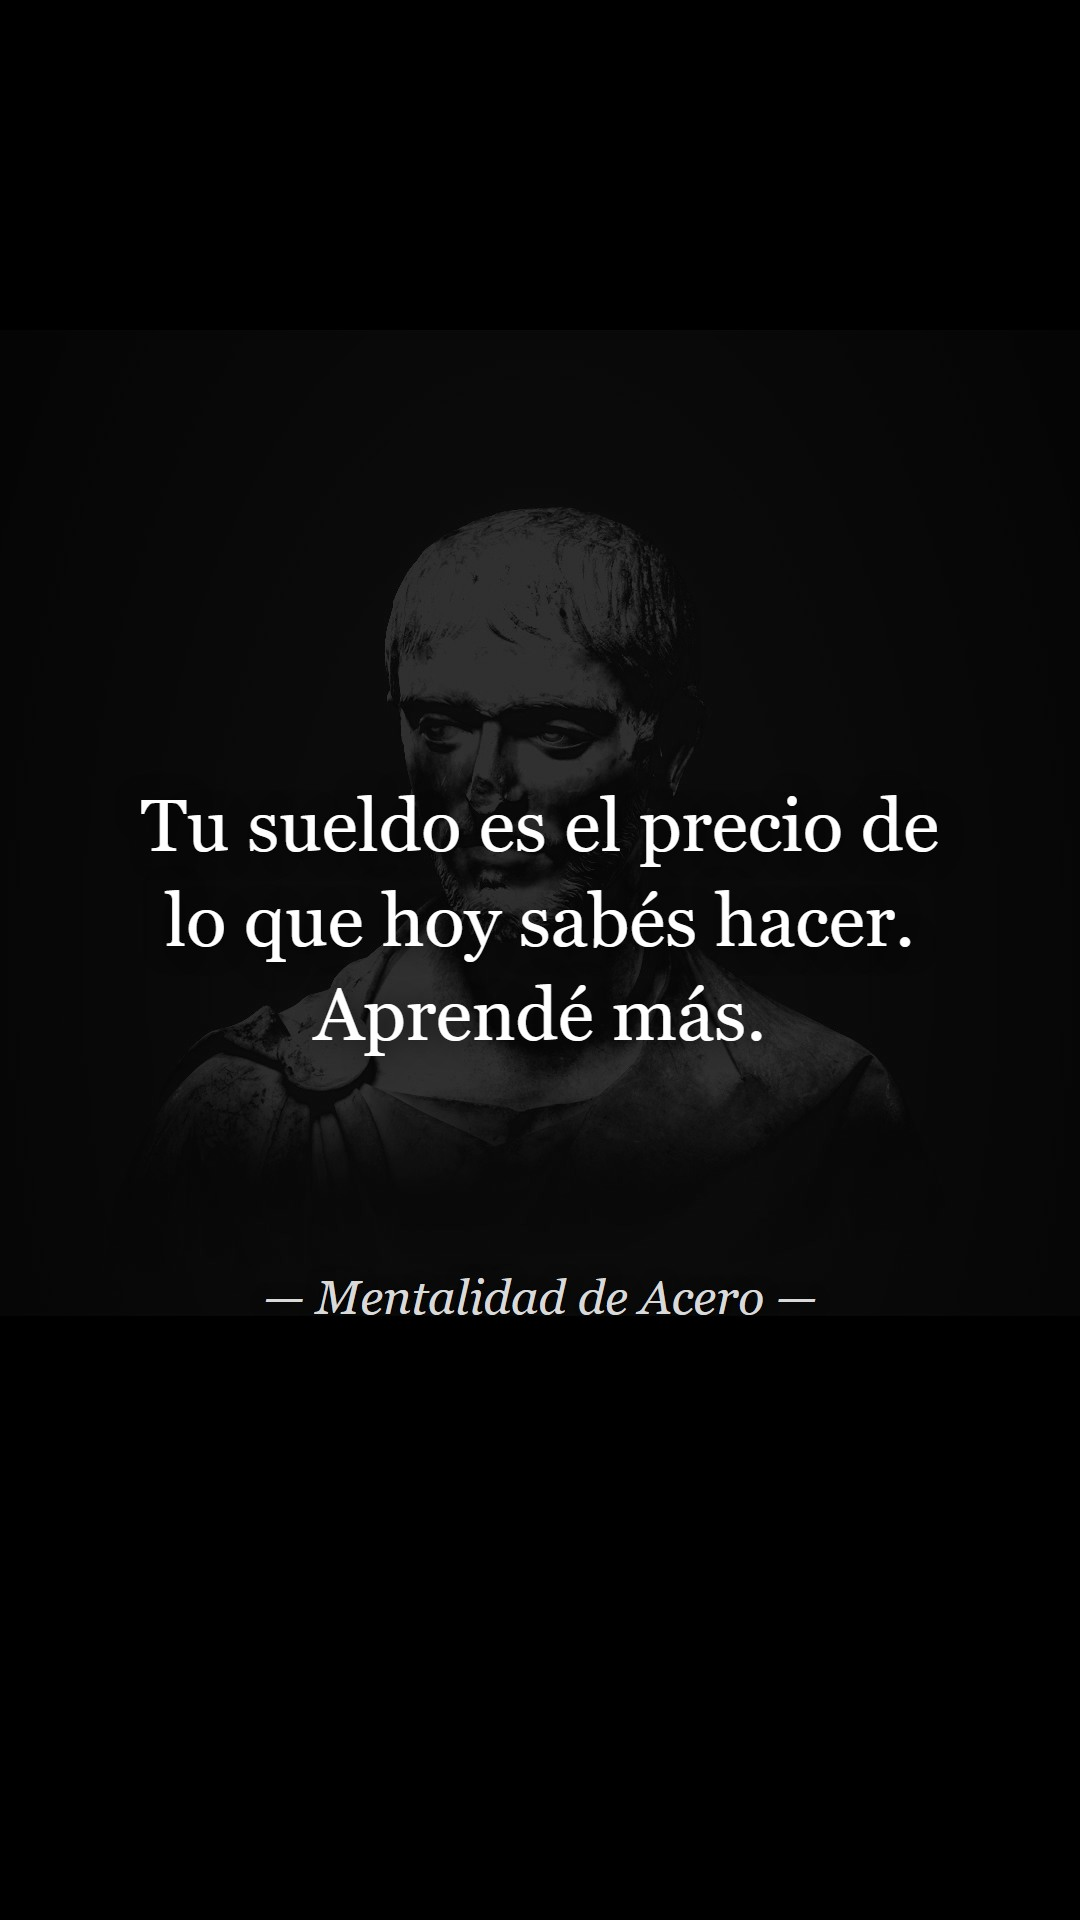
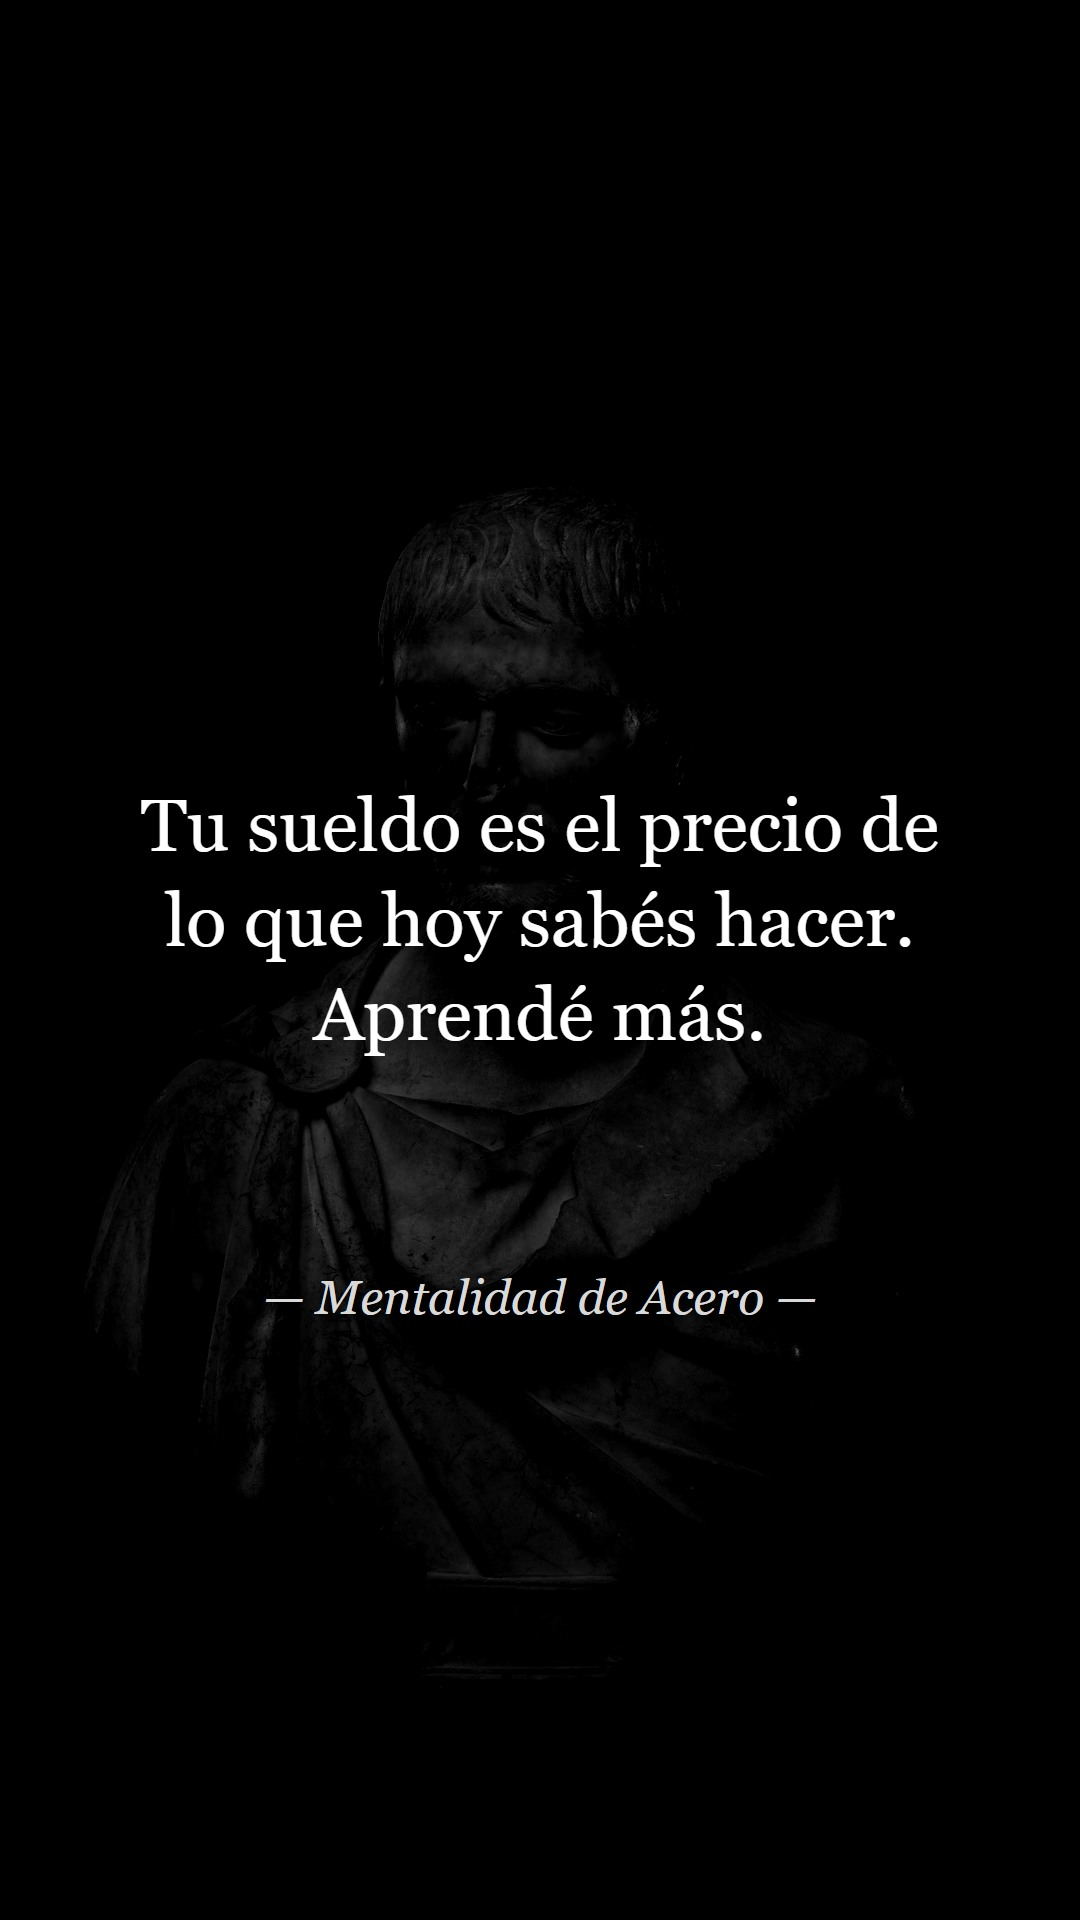
Fix bust backgrounds in ambicion post

diff --git a/posts/2026-10-07-ambicion/cards.js b/posts/2026-10-07-ambicion/cards.js
@@ -1,8 +1,8 @@
 window.CARDS=[
 {q:"Nadie te va a regalar el nivel que querés. Tenés que construirlo.",a:"Mentalidad de Acero",bg:"file:///D:/proyectos/nahuel-tiktok-legal/tools/tarjetas/fondos/am_c1.jpg"},
 {q:"El dinero llega al que resuelve problemas, no al que se queja de ellos.",a:"Mentalidad de Acero",bg:"file:///D:/proyectos/nahuel-tiktok-legal/tools/tarjetas/fondos/am_c2.jpg"},
-{q:"Tu sueldo es el precio de lo que hoy sabés hacer. Aprendé más.",a:"Mentalidad de Acero",bg:"file:///D:/proyectos/nahuel-tiktok-legal/tools/tarjetas/fondos/am_c3.jpg"},
+{q:"Tu sueldo es el precio de lo que hoy sabés hacer. Aprendé más.",a:"Mentalidad de Acero",bg:"file:///D:/proyectos/nahuel-tiktok-legal/tools/tarjetas/fondos/am_n248118.jpg"},
 {q:"Querer más no es ambición. Hacer más, sí.",a:"Mentalidad de Acero",bg:"file:///D:/proyectos/nahuel-tiktok-legal/tools/tarjetas/fondos/am_c4.jpg"},
-{q:"El que se conforma no pierde nada hoy. Pierde todo con los años.",a:"Mentalidad de Acero",bg:"file:///D:/proyectos/nahuel-tiktok-legal/tools/tarjetas/fondos/am_c5.jpg"},
+{q:"El que se conforma no pierde nada hoy. Pierde todo con los años.",a:"Mentalidad de Acero",bg:"file:///D:/proyectos/nahuel-tiktok-legal/tools/tarjetas/fondos/am_n251198.jpg"},
 {q:"Guardá esto para el día que quieras conformarte.",a:"Mentalidad de Acero",bg:"file:///D:/proyectos/nahuel-tiktok-legal/tools/tarjetas/fondos/am_c6.jpg"}
 ];
